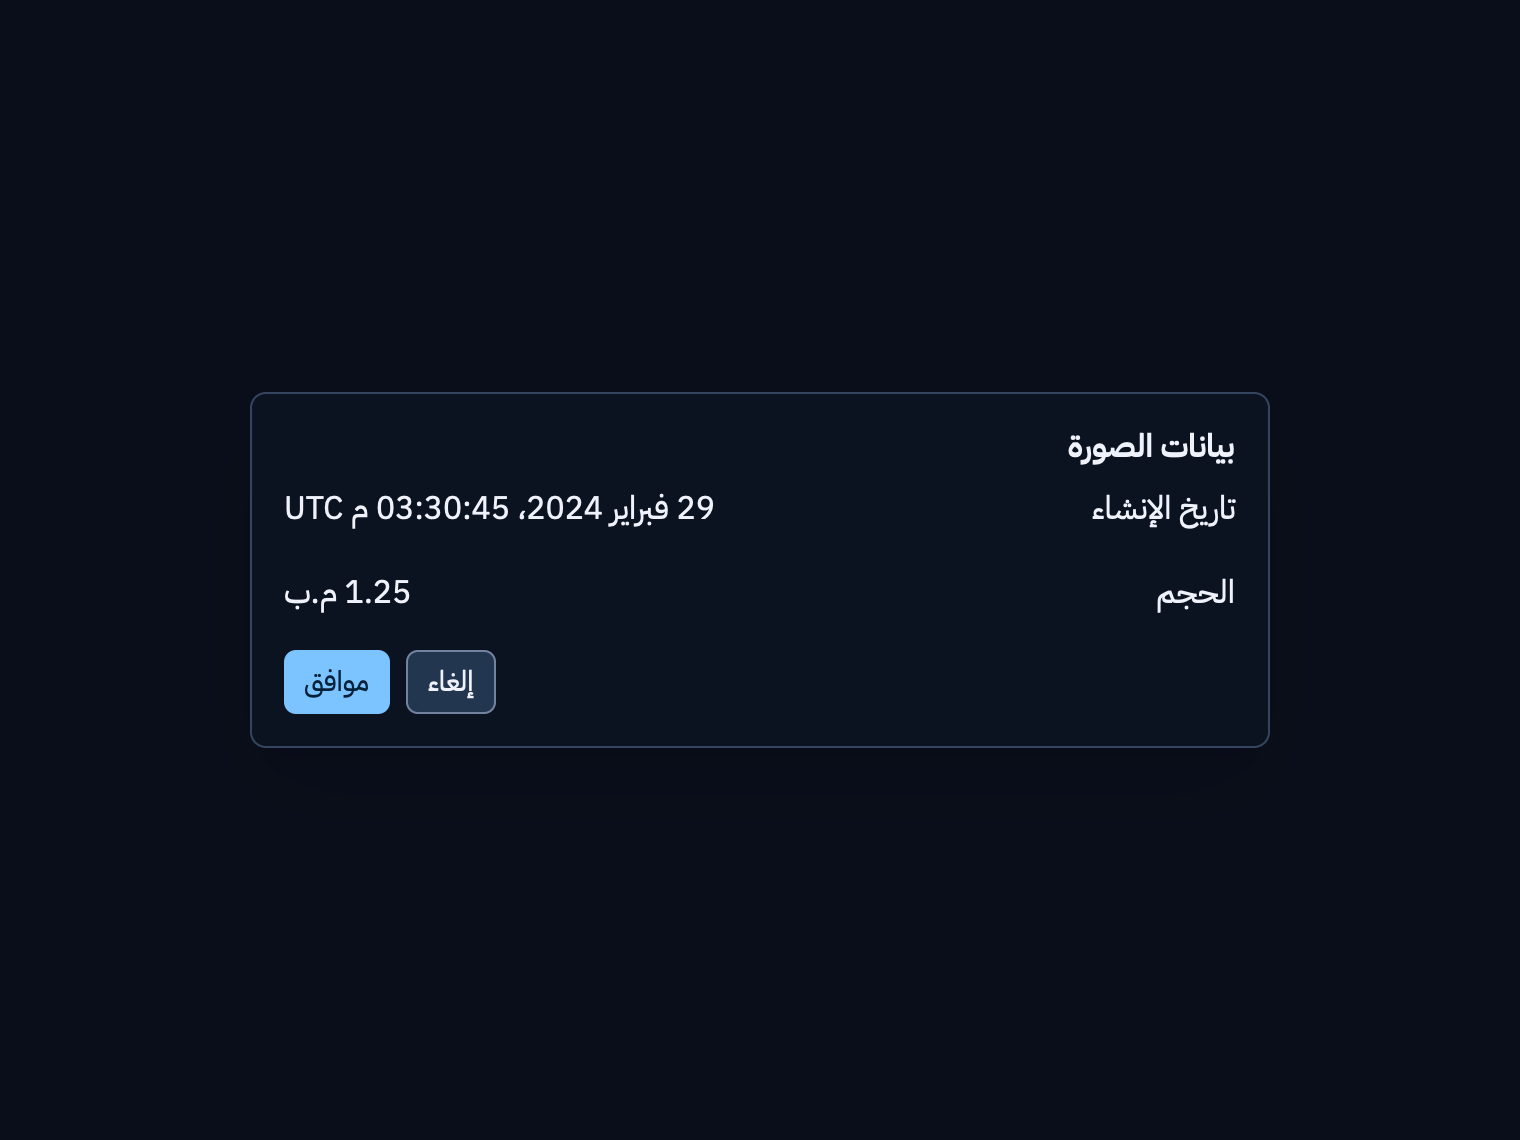
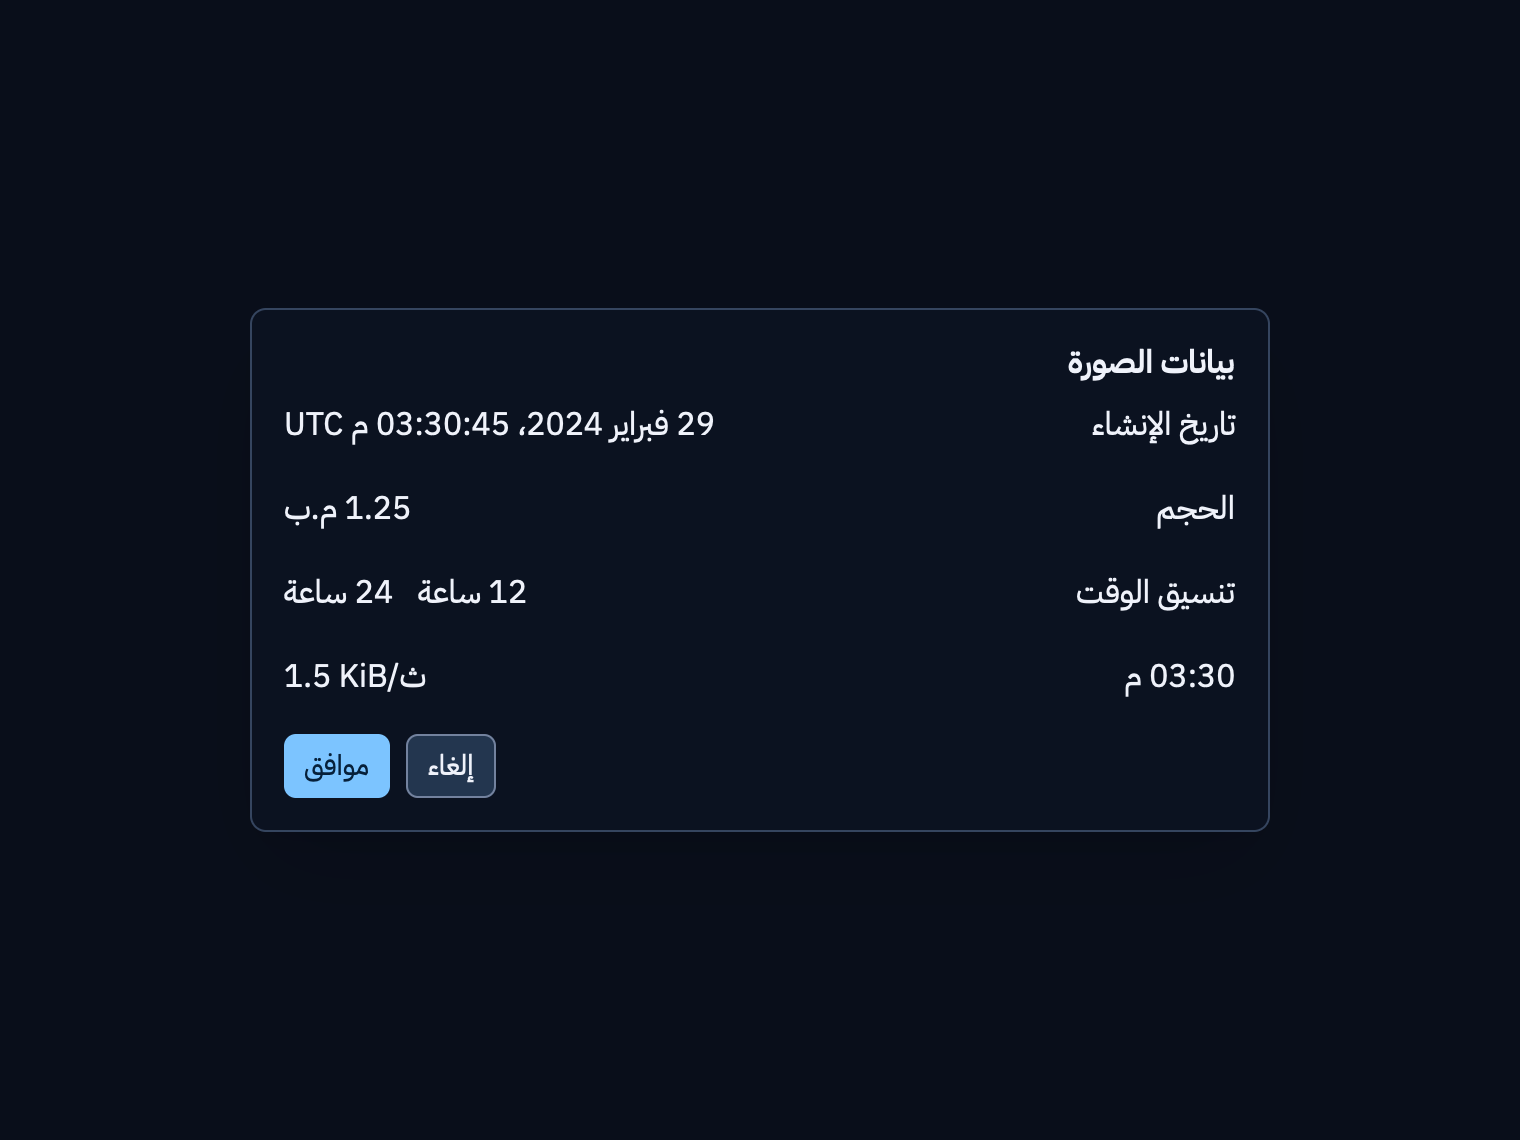
M6-04: finish clock and byte localization coverage

diff --git a/crates/marsa-ui/src/locale_format.rs b/crates/marsa-ui/src/locale_format.rs
@@ -27,10 +27,26 @@ pub fn date_time_utc(locale: Locale, format: TimeFormat, unix_seconds: i64) -> O
 
 /// Format a Docker RFC 3339 date as a human-readable UTC date and clock time.
 pub fn rfc3339_utc(locale: Locale, format: TimeFormat, value: &str) -> Option<String> {
-    let instant = OffsetDateTime::parse(value, &Rfc3339)
-        .ok()?
-        .checked_to_offset(UtcOffset::UTC)?;
+    let instant = parse_rfc3339_utc(value)?;
     Some(format_date_time(locale, format, instant))
+}
+
+/// Format an RFC 3339 timestamp as a UTC clock label at minute precision.
+pub fn rfc3339_clock_utc(locale: Locale, format: TimeFormat, value: &str) -> Option<String> {
+    let instant = parse_rfc3339_utc(value)?;
+    Some(clock(
+        locale,
+        format,
+        instant.hour(),
+        instant.minute(),
+        None,
+    ))
+}
+
+fn parse_rfc3339_utc(value: &str) -> Option<OffsetDateTime> {
+    OffsetDateTime::parse(value, &Rfc3339)
+        .ok()?
+        .checked_to_offset(UtcOffset::UTC)
 }
 
 fn format_date_time(locale: Locale, format: TimeFormat, instant: OffsetDateTime) -> String {
@@ -41,7 +57,7 @@ fn format_date_time(locale: Locale, format: TimeFormat, instant: OffsetDateTime)
         format,
         instant.hour(),
         instant.minute(),
-        instant.second(),
+        Some(instant.second()),
     );
     match locale {
         Locale::EnglishUs => format!("{month} {day}, {year}, {clock} UTC"),
@@ -55,7 +71,7 @@ pub fn time_utc(locale: Locale, format: TimeFormat, unix_millis: i64) -> String 
     let hour = (seconds / 3_600) as u8;
     let minute = (seconds / 60 % 60) as u8;
     let second = (seconds % 60) as u8;
-    format!("{} UTC", clock(locale, format, hour, minute, second))
+    format!("{} UTC", clock(locale, format, hour, minute, Some(second)))
 }
 
 /// Return the locale's labels for the two halves of a 12-hour clock.
@@ -66,16 +82,23 @@ pub fn day_periods(locale: Locale) -> (&'static str, &'static str) {
     )
 }
 
-fn clock(locale: Locale, format: TimeFormat, hour: u8, minute: u8, second: u8) -> String {
-    match format {
-        TimeFormat::TwentyFourHour => format!("{hour:02}:{minute:02}:{second:02}"),
+fn clock(locale: Locale, format: TimeFormat, hour: u8, minute: u8, second: Option<u8>) -> String {
+    use std::fmt::Write as _;
+    let (hour, period) = match format {
+        TimeFormat::TwentyFourHour => (hour, None),
         TimeFormat::TwelveHour => {
             let (am, pm) = day_periods(locale);
-            let period = if hour < 12 { am } else { pm };
-            let hour = (hour + 11) % 12 + 1;
-            format!("{hour:02}:{minute:02}:{second:02} {period}")
+            ((hour + 11) % 12 + 1, Some(if hour < 12 { am } else { pm }))
         }
+    };
+    let mut text = format!("{hour:02}:{minute:02}");
+    if let Some(second) = second {
+        let _ = write!(text, ":{second:02}");
     }
+    if let Some(period) = period {
+        let _ = write!(text, " {period}");
+    }
+    text
 }
 
 /// Select the unit scale and precision appropriate to the displayed measurement.
@@ -121,11 +144,29 @@ pub fn bytes(locale: Locale, format: SizeFormat, bytes: u64) -> String {
             format!("{value:.precision$} {}", units[index].text(locale))
         }
         SizeFormat::Binary => {
-            let units = ["KiB", "MiB", "GiB", "TiB"];
             let precision = usize::from(!bytes.is_multiple_of(unit));
-            format!("{value:.precision$} {}", units[index])
+            format!("{value:.precision$} {}", binary_unit(locale, index + 1))
         }
     }
+}
+
+/// Format a finite, nonnegative byte rate in IEC units per second.
+pub fn bytes_per_second(locale: Locale, rate: f64) -> Option<String> {
+    if !rate.is_finite() || rate < 0. {
+        return None;
+    }
+    let units = [1., 1_024., 1_048_576., 1_073_741_824., 1_099_511_627_776.];
+    let exponent = units.iter().rposition(|&unit| rate >= unit).unwrap_or(0);
+    let value = rate / units[exponent];
+    let suffix = gui::GUI_SIZE_PER_SECOND.text(locale);
+    Some(format!(
+        "{value:.1} {}{suffix}",
+        binary_unit(locale, exponent)
+    ))
+}
+
+fn binary_unit(locale: Locale, exponent: usize) -> &'static str {
+    [gui::GUI_DESKTOP_B.text(locale), "KiB", "MiB", "GiB", "TiB"][exponent]
 }
 
 #[cfg(test)]
@@ -153,6 +194,42 @@ mod tests {
         assert_eq!(time_utc(EnglishUs, TwentyFourHour, -1), "23:59:59 UTC");
         assert!(date_time_utc(EnglishUs, TwentyFourHour, i64::MAX).is_none());
         assert!(rfc3339_utc(Arabic, TwelveHour, "invalid").is_none());
+    }
+
+    #[test]
+    fn settings_and_stats_clocks_use_western_digits() {
+        assert_eq!(gui::GUI_SETTINGS_TIME_FORMAT_TWELVE.text(Arabic), "12 ساعة");
+        assert_eq!(
+            gui::GUI_SETTINGS_TIME_FORMAT_TWENTY_FOUR.text(Arabic),
+            "24 ساعة"
+        );
+        let sample = "2024-02-29T17:30:45+02:00";
+        assert_eq!(
+            rfc3339_clock_utc(Arabic, TwelveHour, sample).as_deref(),
+            Some("03:30 م")
+        );
+        assert_eq!(
+            rfc3339_clock_utc(EnglishUs, TwentyFourHour, sample).as_deref(),
+            Some("15:30")
+        );
+        assert!(rfc3339_clock_utc(Arabic, TwelveHour, "invalid").is_none());
+    }
+
+    #[test]
+    fn byte_rates_localize_units_and_keep_fractional_precision() {
+        assert_eq!(
+            bytes_per_second(Arabic, 4.25).as_deref(),
+            Some("4.2 بايت/ث")
+        );
+        assert_eq!(
+            bytes_per_second(EnglishUs, 1_536.).as_deref(),
+            Some("1.5 KiB/s")
+        );
+        assert_eq!(
+            bytes_per_second(Arabic, 1_536.).as_deref(),
+            Some("1.5 KiB/ث")
+        );
+        assert!(bytes_per_second(Arabic, f64::NAN).is_none());
     }
 
     #[test]

diff --git a/crates/marsa-gui/src/screens/containers/stats.rs b/crates/marsa-gui/src/screens/containers/stats.rs
@@ -16,6 +16,7 @@ use marsa_ui::{
         ParentElement as _, PathBuilder, Styled as _, Task, Window, canvas, div, point, px,
     },
     gpui_component::{IconName, button::Button, scroll::ScrollableElement as _},
+    locale_format::{self, SizeFormat},
 };
 
 use crate::{
@@ -73,13 +74,7 @@ impl StatsState {
         let clock = sample
             .read
             .as_deref()
-            .and_then(|time| time.split_once('T'))
-            .and_then(|(_, clock)| clock.get(..5))
-            .filter(|clock| {
-                clock
-                    .bytes()
-                    .all(|byte| byte.is_ascii_digit() || byte == b':')
-            })
+            .filter(|value| value.len() <= 35)
             .map(str::to_owned);
         self.samples.push_back(Measurement {
             received: now,
@@ -213,7 +208,7 @@ pub(super) fn render(
                     ColorToken::ChartCpu,
                     samples,
                     |sample| sample.cpu,
-                    |value| format!("{value:.1}%"),
+                    |value| Some(format!("{value:.1}%")),
                 ))
                 .child(metric(
                     screen,
@@ -222,7 +217,13 @@ pub(super) fn render(
                     ColorToken::ChartMemory,
                     samples,
                     |sample| sample.memory,
-                    |value| bytes(value, false),
+                    |value| {
+                        Some(locale_format::bytes(
+                            screen.locale,
+                            SizeFormat::Binary,
+                            value as u64,
+                        ))
+                    },
                 )),
         )
         .child(
@@ -234,7 +235,7 @@ pub(super) fn render(
                     ColorToken::ChartNetwork,
                     samples,
                     |sample| sample.network_rate,
-                    |value| bytes(value, true),
+                    |value| locale_format::bytes_per_second(screen.locale, value),
                 ))
                 .child(metric(
                     screen,
@@ -243,7 +244,7 @@ pub(super) fn render(
                     ColorToken::ChartDisk,
                     samples,
                     |sample| sample.disk_rate,
-                    |value| bytes(value, true),
+                    |value| locale_format::bytes_per_second(screen.locale, value),
                 )),
         );
     div()
@@ -262,21 +263,23 @@ fn metric(
     token: ColorToken,
     data: &VecDeque<Measurement>,
     value: fn(&Measurement) -> Option<f64>,
-    format_value: impl FnOnce(f64) -> String,
+    format_value: impl FnOnce(f64) -> Option<String>,
 ) -> Div {
     let current = data
         .back()
         .and_then(value)
-        .map(format_value)
+        .and_then(format_value)
         .unwrap_or_else(|| "—".into());
-    let first = data
-        .front()
-        .and_then(|sample| sample.clock.as_deref())
-        .unwrap_or("—");
-    let last = data
-        .back()
-        .and_then(|sample| sample.clock.as_deref())
-        .unwrap_or("—");
+    let clock = |sample: Option<&Measurement>| {
+        sample
+            .and_then(|sample| sample.clock.as_deref())
+            .and_then(|value| {
+                locale_format::rfc3339_clock_utc(screen.locale, screen.display.time_format, value)
+            })
+            .unwrap_or_else(|| "—".into())
+    };
+    let first = clock(data.front());
+    let last = clock(data.back());
     let mut points = Vec::with_capacity(data.len());
     if let (Some(first), Some(last)) = (data.front(), data.back()) {
         let total = last.received.duration_since(first.received).as_secs_f64();
@@ -311,8 +314,8 @@ fn metric(
                 .text_size(ui_size(11.))
                 .font_family("IBM Plex Mono")
                 .text_color(color(screen.palette, ColorToken::TextMuted))
-                .child(isolate_technical_text(first))
-                .child(isolate_technical_text(last)),
+                .child(isolate_technical_text(&first))
+                .child(isolate_technical_text(&last)),
         )
 }
 
@@ -350,18 +353,4 @@ fn chart(palette: Palette, token: ColorToken, values: Vec<(f32, f64)>) -> impl I
     )
     .w_full()
     .h(px(72.))
-}
-
-fn bytes(bytes: f64, rate: bool) -> String {
-    let (value, unit) = if bytes >= 1024. * 1024. * 1024. {
-        (bytes / (1024. * 1024. * 1024.), "GiB")
-    } else if bytes >= 1024. * 1024. {
-        (bytes / (1024. * 1024.), "MiB")
-    } else if bytes >= 1024. {
-        (bytes / 1024., "KiB")
-    } else {
-        (bytes, "B")
-    };
-    let suffix = if rate { "/s" } else { "" };
-    format!("{value:.1} {unit}{suffix}")
 }

diff --git a/crates/marsa-gui/src/screens/resources/operations.rs b/crates/marsa-gui/src/screens/resources/operations.rs
@@ -576,9 +576,19 @@ pub(super) fn image_metadata(
         ),
         (
             message(screen.locale, gui::GUI_DESKTOP_CREATED),
-            image.created.clone().unwrap_or_else(|| {
-                message(screen.locale, gui::GUI_DESKTOP_UNAVAILABLE).to_string()
-            }),
+            image
+                .created
+                .as_deref()
+                .and_then(|value| {
+                    marsa_ui::locale_format::rfc3339_utc(
+                        screen.locale,
+                        screen.display.time_format,
+                        value,
+                    )
+                })
+                .unwrap_or_else(|| {
+                    message(screen.locale, gui::GUI_DESKTOP_UNAVAILABLE).to_string()
+                }),
         ),
     ];
     Some(

diff --git a/crates/marsa-gui/src/screens/resources/rows.rs b/crates/marsa-gui/src/screens/resources/rows.rs
@@ -546,7 +546,14 @@ pub(super) fn snapshot_rows(
                             message(screen.locale, gui::GUI_DESKTOP_CREATED),
                             volume
                                 .created_at
-                                .clone()
+                                .as_deref()
+                                .and_then(|value| {
+                                    locale_format::rfc3339_utc(
+                                        screen.locale,
+                                        screen.display.time_format,
+                                        value,
+                                    )
+                                })
                                 .unwrap_or_else(|| missing.to_owned()),
                         ),
                         (

diff --git a/docs/plan/M6-gui-foundation.md b/docs/plan/M6-gui-foundation.md
@@ -127,8 +127,9 @@ interpolation placeholder each failed the check. Native GPUI tests switched
 English to Arabic and back in one application, updating Fluent and component
 labels and reversing logical row order. Unit tests cover Gregorian date
 order, UTC conversion, both hour cycles and SI and IEC size boundaries.
-The four snapshots use native GPUI dialogs and the shared date and size
-formatters. Escape dismissed the dialog in each variant.
+The four snapshots use native GPUI dialogs, the Settings clock choices,
+and the shared date, chart clock, size and transfer-rate formatters. Escape
+dismissed the dialog in each variant.
 
 [English light](../screenshots/m6-04/en-light.png) ·
 [English dark](../screenshots/m6-04/en-dark.png) ·
